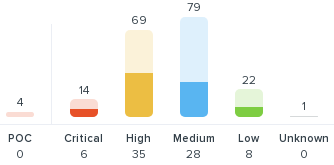
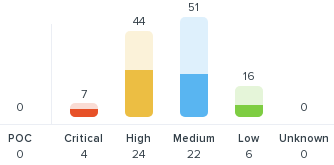
Add mongodb11 (#79)
* add mongodb debian 11

* update screenshots

diff --git a/community_images/mongodb/bitnami/README.md b/community_images/mongodb/bitnami/README.md
@@ -59,7 +59,7 @@ RapidFort’s hardened [rapidfort/mongodb][rf-dh-image-link] image has been opti
 We are making secure copies of the images we use every day and the most popular ones on Docker Hub. We want to make the world a safer place to operate.
 
 ## Supported tags and respective `Dockerfile` links
-* [`5.0`, `5.0-debian-10`, `5.0.9`, `5.0.9-debian-10-r0`, `latest` (5.0/debian-10/Dockerfile)](https://github.com/bitnami/bitnami-docker-mongodb/blob/5.0.9-debian-10-r0/5.0/debian-10/Dockerfile)
+* [`5.0`, `5.0-debian-11`, `5.0.9`, `5.0.9-debian-11-r0`, `latest` (5.0/debian-11/Dockerfile)](https://github.com/bitnami/bitnami-docker-mongodb/blob/5.0.9-debian-11-r0/5.0/debian-11/Dockerfile)
 * [`4.4`, `4.4-debian-10`, `4.4.14`, `4.4.14-debian-10-r16` (4.4/debian-10/Dockerfile)](https://github.com/bitnami/bitnami-docker-mongodb/blob/4.4.14-debian-10-r16/4.4/debian-10/Dockerfile)
 * [`4.2`, `4.2-debian-10`, `4.2.20`, `4.2.20-debian-10-r16` (4.2/debian-10/Dockerfile)](https://github.com/bitnami/bitnami-docker-mongodb/blob/4.2.20-debian-10-r16/4.2/debian-10/Dockerfile)
 
